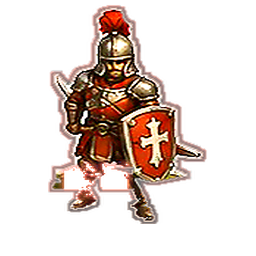
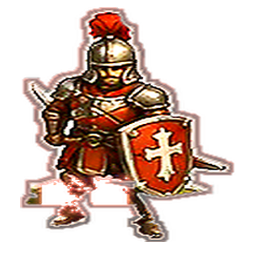
fix(art): maximize infantry silhouette footprint

diff --git a/tests/external-unit-assets.test.ts b/tests/external-unit-assets.test.ts
@@ -151,8 +151,8 @@ describe('Phase 2A 외부 보병 에셋', () => {
       expect(alphaAt(png, 0, png.height - 1)).toBe(0);
       expect(alphaAt(png, png.width - 1, png.height - 1)).toBe(0);
       const bounds = opaqueBounds(png);
-      expect(bounds.width, `${url} opaque width`).toBeGreaterThanOrEqual(150);
-      expect(bounds.height, `${url} opaque height`).toBeGreaterThanOrEqual(210);
+      expect(bounds.width, `${url} opaque width`).toBeGreaterThanOrEqual(210);
+      expect(bounds.height, `${url} opaque height`).toBeGreaterThanOrEqual(232);
     }
   });
 
